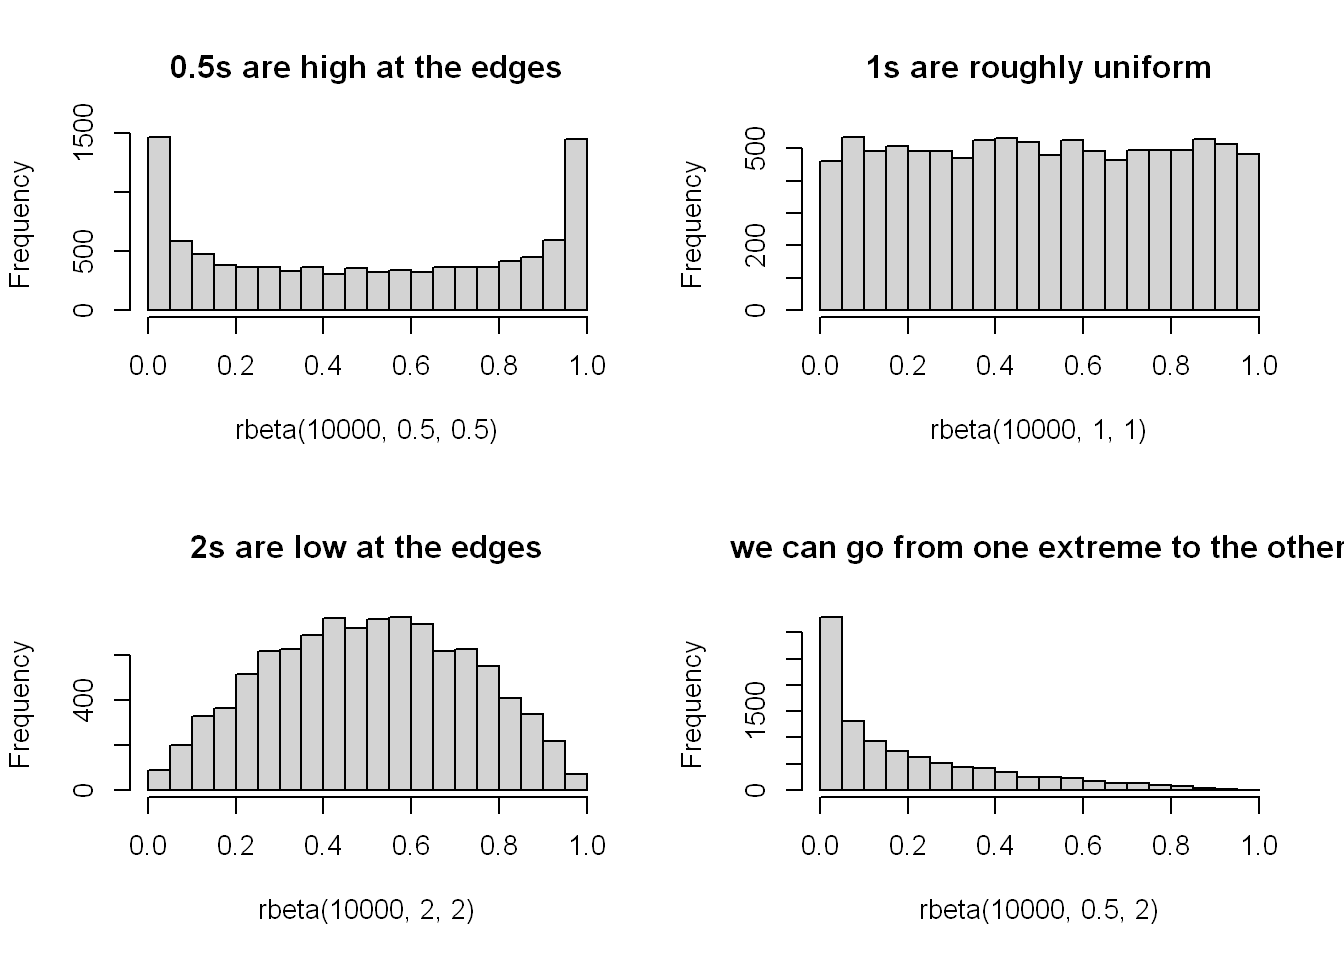
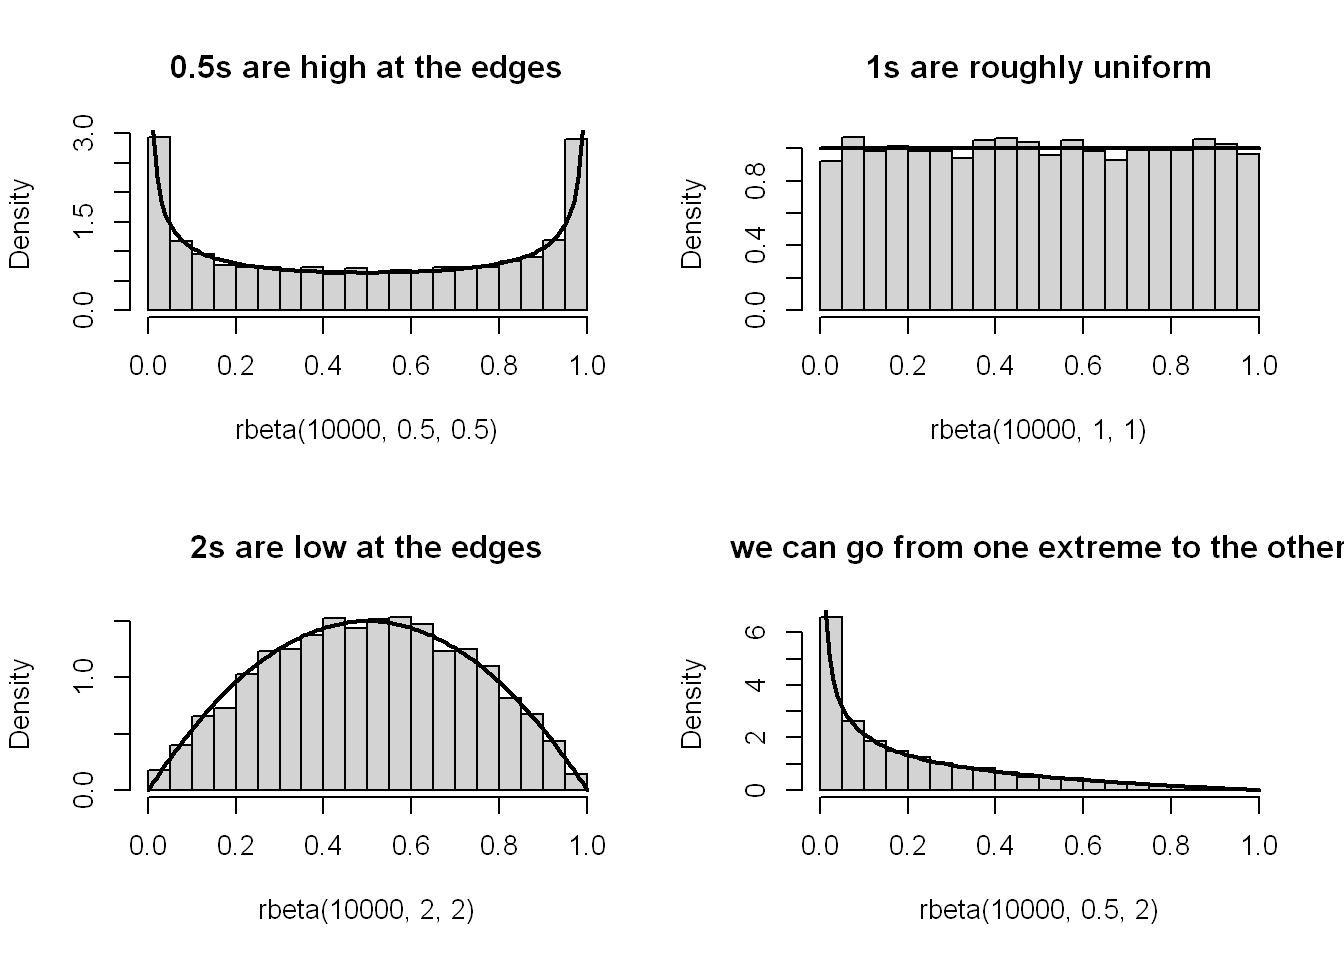
Update 2.5 and add 2.6
All of 2.5 now plots density instead of frequency, as well as a  having a line of the Probability Density Function.

Add response to Example 2.6.

diff --git a/docs/numeric.html b/docs/numeric.html
@@ -172,7 +172,8 @@ pre > code.sourceCode > span > a:first-child::before { text-decoration: underlin
   <li><a href="#scan-in-data" id="toc-scan-in-data" class="nav-link" data-scroll-target="#scan-in-data"><span class="header-section-number">2.2</span> <code>scan()</code> in data</a></li>
   <li><a href="#start-making-a-plot" id="toc-start-making-a-plot" class="nav-link" data-scroll-target="#start-making-a-plot"><span class="header-section-number">2.3</span> Start making a <code>plot()</code></a></li>
   <li><a href="#exponentials-and-natural-logs-are-opposites" id="toc-exponentials-and-natural-logs-are-opposites" class="nav-link" data-scroll-target="#exponentials-and-natural-logs-are-opposites"><span class="header-section-number">2.4</span> Exponentials and natural logs are opposites</a></li>
-  <li><a href="#draw-a-histgram-of-different-distributions" id="toc-draw-a-histgram-of-different-distributions" class="nav-link" data-scroll-target="#draw-a-histgram-of-different-distributions"><span class="header-section-number">2.5</span> Draw a <code>hist()</code>gram of different distributions</a></li>
+  <li><a href="#draw-a-histgram-of-probability-distributions" id="toc-draw-a-histgram-of-probability-distributions" class="nav-link" data-scroll-target="#draw-a-histgram-of-probability-distributions"><span class="header-section-number">2.5</span> Draw a <code>hist()</code>gram of probability distributions</a></li>
+  <li><a href="#binomial-distribution" id="toc-binomial-distribution" class="nav-link" data-scroll-target="#binomial-distribution"><span class="header-section-number">2.6</span> Binomial distribution</a></li>
   </ul>
 </nav>
     </div>
@@ -392,8 +393,8 @@ pre > code.sourceCode > span > a:first-child::before { text-decoration: underlin
 </div>
 </div>
 </section>
-<section id="draw-a-histgram-of-different-distributions" class="level2" data-number="2.5">
-<h2 data-number="2.5" class="anchored" data-anchor-id="draw-a-histgram-of-different-distributions"><span class="header-section-number">2.5</span> Draw a <code>hist()</code>gram of different distributions</h2>
+<section id="draw-a-histgram-of-probability-distributions" class="level2" data-number="2.5">
+<h2 data-number="2.5" class="anchored" data-anchor-id="draw-a-histgram-of-probability-distributions"><span class="header-section-number">2.5</span> Draw a <code>hist()</code>gram of probability distributions</h2>
 <p><a href="https://deepr.gagolewski.com/chapter/120-numeric.html#probability-distributions">2.3.4. Probability distributions</a></p>
 <blockquote class="blockquote">
 <p><em>A call to hist(x) draws a histogram, which can serve as an estimator of the underlying continuous probability density function of a given sample; see <a href="https://deepr.gagolewski.com/chapter/120-numeric.html#id27">Figure 2.3</a> for an illustration.</em></p>
@@ -502,23 +503,71 @@ pre > code.sourceCode > span > a:first-child::before { text-decoration: underlin
 </div>
 <p>He <em>did</em> say to play with <code>col</code> (colours) and <code>breaks</code> (number of bins). I note that <code>n = 10000</code> seems enough to really see the expected distribution take shape, but it’s not so clear at e.g.&nbsp;<code>n = 1000</code> and especially <code>n = 100</code>. Though even at 10000, as you get more breaks/bins like this, the variation becomes more visible again.</p>
 <div class="cell">
-<div class="sourceCode cell-code" id="cb40"><pre class="sourceCode r code-with-copy"><code class="sourceCode r"><span id="cb40-1"><a href="#cb40-1" aria-hidden="true" tabindex="-1"></a><span class="fu">par</span>(<span class="at">mfrow =</span> <span class="fu">c</span>(<span class="dv">2</span>, <span class="dv">2</span>))</span>
-<span id="cb40-2"><a href="#cb40-2" aria-hidden="true" tabindex="-1"></a><span class="fu">hist</span>(<span class="fu">rbeta</span>(<span class="dv">10000</span>, <span class="fl">0.5</span>, <span class="fl">0.5</span>), <span class="at">main =</span> <span class="st">"0.5s are high at the edges"</span>)</span>
-<span id="cb40-3"><a href="#cb40-3" aria-hidden="true" tabindex="-1"></a><span class="fu">hist</span>(<span class="fu">rbeta</span>(<span class="dv">10000</span>, <span class="dv">1</span>, <span class="dv">1</span>), <span class="at">main =</span> <span class="st">"1s are roughly uniform"</span>)</span>
-<span id="cb40-4"><a href="#cb40-4" aria-hidden="true" tabindex="-1"></a><span class="fu">hist</span>(<span class="fu">rbeta</span>(<span class="dv">10000</span>, <span class="dv">2</span>, <span class="dv">2</span>), <span class="at">main =</span> <span class="st">"2s are low at the edges"</span>)</span>
-<span id="cb40-5"><a href="#cb40-5" aria-hidden="true" tabindex="-1"></a><span class="fu">hist</span>(<span class="fu">rbeta</span>(<span class="dv">10000</span>, <span class="fl">0.5</span>, <span class="dv">2</span>), <span class="at">main =</span> <span class="st">"we can go from one extreme to the other"</span>)</span></code><button title="Copy to Clipboard" class="code-copy-button"><i class="bi"></i></button></pre></div>
+<div class="sourceCode cell-code" id="cb40"><pre class="sourceCode r code-with-copy"><code class="sourceCode r"><span id="cb40-1"><a href="#cb40-1" aria-hidden="true" tabindex="-1"></a>x <span class="ot">&lt;-</span> <span class="fu">seq</span>(<span class="dv">0</span>, <span class="dv">1</span>, <span class="at">length.out =</span> <span class="dv">100</span>)</span>
+<span id="cb40-2"><a href="#cb40-2" aria-hidden="true" tabindex="-1"></a></span>
+<span id="cb40-3"><a href="#cb40-3" aria-hidden="true" tabindex="-1"></a><span class="fu">par</span>(<span class="at">mfrow =</span> <span class="fu">c</span>(<span class="dv">2</span>, <span class="dv">2</span>))</span>
+<span id="cb40-4"><a href="#cb40-4" aria-hidden="true" tabindex="-1"></a><span class="fu">hist</span>(<span class="fu">rbeta</span>(<span class="dv">10000</span>, <span class="fl">0.5</span>, <span class="fl">0.5</span>), <span class="at">main =</span> <span class="st">"0.5s are high at the edges"</span>, <span class="at">probability =</span> <span class="cn">TRUE</span>)</span>
+<span id="cb40-5"><a href="#cb40-5" aria-hidden="true" tabindex="-1"></a><span class="fu">lines</span>(x, <span class="fu">dbeta</span>(x, <span class="fl">0.5</span>, <span class="fl">0.5</span>), <span class="at">lwd =</span> <span class="dv">2</span>)</span>
+<span id="cb40-6"><a href="#cb40-6" aria-hidden="true" tabindex="-1"></a></span>
+<span id="cb40-7"><a href="#cb40-7" aria-hidden="true" tabindex="-1"></a><span class="fu">hist</span>(<span class="fu">rbeta</span>(<span class="dv">10000</span>, <span class="dv">1</span>, <span class="dv">1</span>), <span class="at">main =</span> <span class="st">"1s are roughly uniform"</span>, <span class="at">probability =</span> <span class="cn">TRUE</span>)</span>
+<span id="cb40-8"><a href="#cb40-8" aria-hidden="true" tabindex="-1"></a><span class="fu">lines</span>(x, <span class="fu">dbeta</span>(x, <span class="dv">1</span>, <span class="dv">1</span>), <span class="at">lwd =</span> <span class="dv">2</span>)</span>
+<span id="cb40-9"><a href="#cb40-9" aria-hidden="true" tabindex="-1"></a></span>
+<span id="cb40-10"><a href="#cb40-10" aria-hidden="true" tabindex="-1"></a><span class="fu">hist</span>(<span class="fu">rbeta</span>(<span class="dv">10000</span>, <span class="dv">2</span>, <span class="dv">2</span>), <span class="at">main =</span> <span class="st">"2s are low at the edges"</span>, <span class="at">probability =</span> <span class="cn">TRUE</span>)</span>
+<span id="cb40-11"><a href="#cb40-11" aria-hidden="true" tabindex="-1"></a><span class="fu">lines</span>(x, <span class="fu">dbeta</span>(x, <span class="dv">2</span>, <span class="dv">2</span>), <span class="at">lwd =</span> <span class="dv">2</span>)</span>
+<span id="cb40-12"><a href="#cb40-12" aria-hidden="true" tabindex="-1"></a><span class="fu">hist</span>(<span class="fu">rbeta</span>(<span class="dv">10000</span>, <span class="fl">0.5</span>, <span class="dv">2</span>), <span class="at">main =</span> <span class="st">"we can go from one extreme to the other"</span>, <span class="at">probability =</span> <span class="cn">TRUE</span>)</span>
+<span id="cb40-13"><a href="#cb40-13" aria-hidden="true" tabindex="-1"></a><span class="fu">lines</span>(x, <span class="fu">dbeta</span>(x, <span class="fl">0.5</span>, <span class="dv">2</span>), <span class="at">lwd =</span> <span class="dv">2</span>)</span></code><button title="Copy to Clipboard" class="code-copy-button"><i class="bi"></i></button></pre></div>
 <div class="cell-output-display">
 <p><img src="numeric_files/figure-html/rbeta-1.png" class="img-fluid" width="672"></p>
 </div>
 </div>
 <p>I’m not really sure what’s going on here. Roughly I understand that it produces a distribution between 0 and 1, where <code>shape1</code> perhaps has more influence closer to 0 and <code>shape2</code> closer to 1. The higher the number, the lower the density at its respective end of the distribution.</p>
 <div class="cell">
-<div class="sourceCode cell-code" id="cb41"><pre class="sourceCode r code-with-copy"><code class="sourceCode r"><span id="cb41-1"><a href="#cb41-1" aria-hidden="true" tabindex="-1"></a><span class="fu">hist</span>(<span class="fu">rexp</span>(<span class="dv">10000</span>, <span class="dv">10</span>), <span class="at">main =</span> <span class="st">"exponential distribution"</span>)</span></code><button title="Copy to Clipboard" class="code-copy-button"><i class="bi"></i></button></pre></div>
+<div class="sourceCode cell-code" id="cb41"><pre class="sourceCode r code-with-copy"><code class="sourceCode r"><span id="cb41-1"><a href="#cb41-1" aria-hidden="true" tabindex="-1"></a>rate <span class="ot">&lt;-</span> <span class="dv">10</span></span>
+<span id="cb41-2"><a href="#cb41-2" aria-hidden="true" tabindex="-1"></a></span>
+<span id="cb41-3"><a href="#cb41-3" aria-hidden="true" tabindex="-1"></a><span class="fu">hist</span>(<span class="fu">rexp</span>(<span class="dv">10000</span>, rate), <span class="at">main =</span> <span class="st">"exponential distribution"</span>, <span class="at">probability =</span> <span class="cn">TRUE</span>)</span>
+<span id="cb41-4"><a href="#cb41-4" aria-hidden="true" tabindex="-1"></a></span>
+<span id="cb41-5"><a href="#cb41-5" aria-hidden="true" tabindex="-1"></a>x <span class="ot">&lt;-</span> <span class="fu">seq</span>(<span class="dv">0</span>, <span class="dv">1</span>, <span class="at">length.out =</span> <span class="dv">100</span>)</span>
+<span id="cb41-6"><a href="#cb41-6" aria-hidden="true" tabindex="-1"></a><span class="fu">lines</span>(x, <span class="fu">dexp</span>(x, rate), <span class="at">lwd =</span> <span class="dv">2</span>)</span></code><button title="Copy to Clipboard" class="code-copy-button"><i class="bi"></i></button></pre></div>
 <div class="cell-output-display">
 <p><img src="numeric_files/figure-html/rexp-1.png" class="img-fluid" width="672"></p>
 </div>
 </div>
 <p>As we saw from the plotting <code>exp()</code> earlier, the majority sit at a very low value, until it reaches the point of rapid growth, where a rapidly decreasing amount of numbers can be found at each range on the way up. Plotting the density seems to give a horizontally flipped shape. The rate (<span class="math inline">\(λ\)</span>) controls how rapid it grows.</p>
+</section>
+<section id="binomial-distribution" class="level2" data-number="2.6">
+<h2 data-number="2.6" class="anchored" data-anchor-id="binomial-distribution"><span class="header-section-number">2.6</span> Binomial distribution</h2>
+<p>Marek gives a really nice example here of six-sided dice rolls to explain both binomial distribution and the different distribution function prefixes R uses; d*<a href="#fn2" class="footnote-ref" id="fnref2" role="doc-noteref"><sup>2</sup></a>, b*, q* and r*. So, binomial distribution gives us the probability distribution of successes in a sequence of tests/trials. As per the example, this could be a sequence of dice rolls with a particular face result counted as a success.</p>
+<div class="cell">
+<div class="sourceCode cell-code" id="cb42"><pre class="sourceCode r code-with-copy"><code class="sourceCode r"><span id="cb42-1"><a href="#cb42-1" aria-hidden="true" tabindex="-1"></a>n <span class="ot">=</span> <span class="dv">12</span> <span class="co"># Number of trials</span></span>
+<span id="cb42-2"><a href="#cb42-2" aria-hidden="true" tabindex="-1"></a>p <span class="ot">=</span> <span class="dv">1</span><span class="sc">/</span><span class="dv">6</span> <span class="co"># Probability of success of rolling a particular face in a single roll</span></span>
+<span id="cb42-3"><a href="#cb42-3" aria-hidden="true" tabindex="-1"></a></span>
+<span id="cb42-4"><a href="#cb42-4" aria-hidden="true" tabindex="-1"></a><span class="co"># See how likely each number of success is, from the minimum 0 times to the max n times</span></span>
+<span id="cb42-5"><a href="#cb42-5" aria-hidden="true" tabindex="-1"></a><span class="fu">round</span>(<span class="fu">dbinom</span>(<span class="dv">0</span><span class="sc">:</span>n, n, p), <span class="dv">2</span>)</span></code><button title="Copy to Clipboard" class="code-copy-button"><i class="bi"></i></button></pre></div>
+<div class="cell-output cell-output-stdout">
+<pre><code> [1] 0.11 0.27 0.30 0.20 0.09 0.03 0.01 0.00 0.00 0.00 0.00 0.00 0.00</code></pre>
+</div>
+</div>
+<p>It shows 2 successes is just about the most likely (as we started from 0). Then we can check how likely it is to see a certain number of successes or fewer.</p>
+<div class="cell">
+<div class="sourceCode cell-code" id="cb44"><pre class="sourceCode r code-with-copy"><code class="sourceCode r"><span id="cb44-1"><a href="#cb44-1" aria-hidden="true" tabindex="-1"></a><span class="fu">round</span>(<span class="fu">pbinom</span>(<span class="dv">0</span><span class="sc">:</span>n, n, p), <span class="dv">2</span>)</span></code><button title="Copy to Clipboard" class="code-copy-button"><i class="bi"></i></button></pre></div>
+<div class="cell-output cell-output-stdout">
+<pre><code> [1] 0.11 0.38 0.68 0.87 0.96 0.99 1.00 1.00 1.00 1.00 1.00 1.00 1.00</code></pre>
+</div>
+</div>
+<p>It’s very unlikely to roll more than 4 of the same face, so we see 96% probability to roll 4 or less times. By 6 rolls, it’s indistinguishable from guaranteed (at 2 decimal places), which - yeah - does make sense for a 1/6 chance. Sort of the inverse view, we can also check the smallest number of (maximum?) successes for a certain likelihood. Here we use the q (quantile) function to check by decile:</p>
+<div class="cell">
+<div class="sourceCode cell-code" id="cb46"><pre class="sourceCode r code-with-copy"><code class="sourceCode r"><span id="cb46-1"><a href="#cb46-1" aria-hidden="true" tabindex="-1"></a><span class="fu">qbinom</span>(<span class="fu">seq</span>(<span class="dv">0</span>, <span class="dv">1</span>, <span class="at">length.out =</span> <span class="dv">11</span>), n, p)</span></code><button title="Copy to Clipboard" class="code-copy-button"><i class="bi"></i></button></pre></div>
+<div class="cell-output cell-output-stdout">
+<pre><code> [1]  0  0  1  1  2  2  2  3  3  4 12</code></pre>
+</div>
+</div>
+<p>So to reach at least 70% or 80% likelihood of rolling our number of successes or lower, that number would have to be 3, as per the 0.87 figure from the probability distribution. I am half following what’s going on 😅. Back to more familiar territory of random number generation, we can see how many successes we get across multiple sets of n attempts:</p>
+<div class="cell">
+<div class="sourceCode cell-code" id="cb48"><pre class="sourceCode r code-with-copy"><code class="sourceCode r"><span id="cb48-1"><a href="#cb48-1" aria-hidden="true" tabindex="-1"></a><span class="fu">rbinom</span>(<span class="dv">30</span>, n, p)</span></code><button title="Copy to Clipboard" class="code-copy-button"><i class="bi"></i></button></pre></div>
+<div class="cell-output cell-output-stdout">
+<pre><code> [1] 3 3 1 1 1 1 5 4 3 2 2 6 4 1 1 3 2 3 3 1 4 2 2 1 2 1 1 3 3 4</code></pre>
+</div>
+</div>
 
 
 </section>
@@ -526,6 +575,7 @@ pre > code.sourceCode > span > a:first-child::before { text-decoration: underlin
 <hr>
 <ol>
 <li id="fn1"><p>I found that while R does provide <code>mean()</code> and <code>median()</code>, the function <code>mode()</code> is more akin to <code>typeof()</code> in providing the data type/mode. There is not a standard in-built function for the statistical mode.<a href="#fnref1" class="footnote-back" role="doc-backlink">↩</a></p></li>
+<li id="fn2"><p>Amusing to discover <code>df()</code> is a distribution function in R, after seeing so many dataframes borrowing that object name.<a href="#fnref2" class="footnote-back" role="doc-backlink">↩</a></p></li>
 </ol>
 </section>
 
